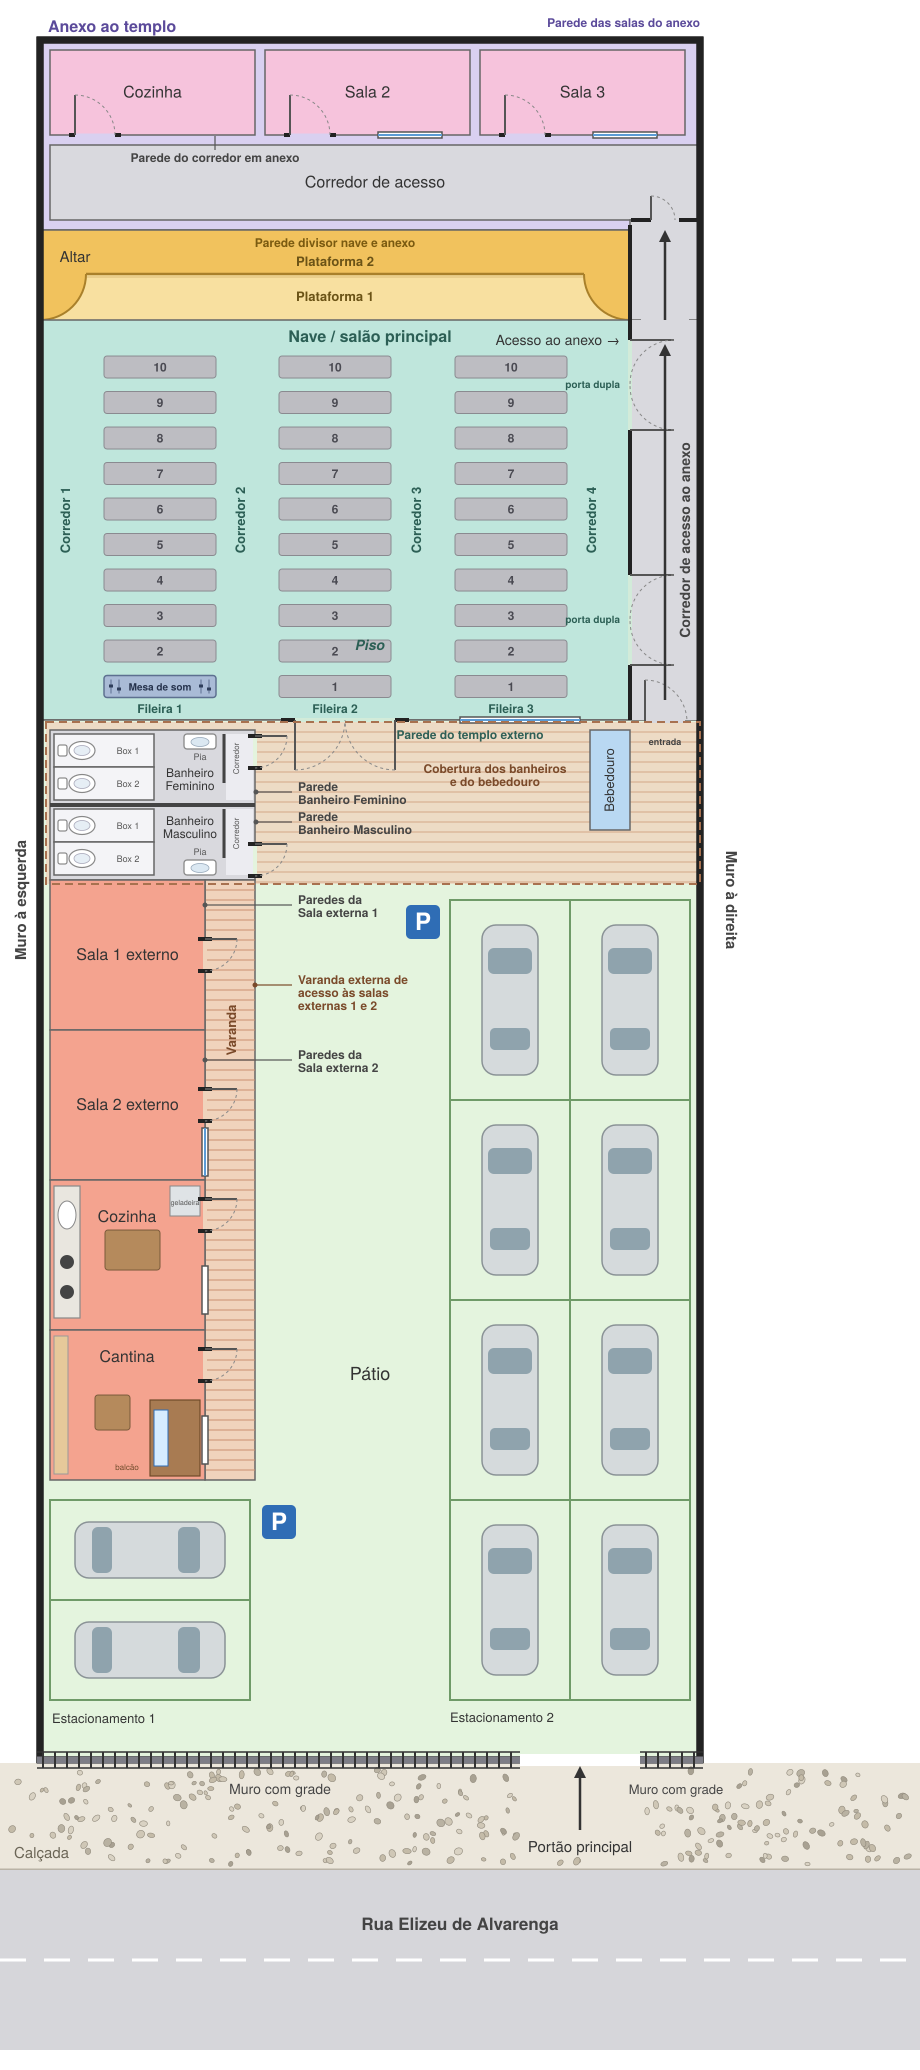
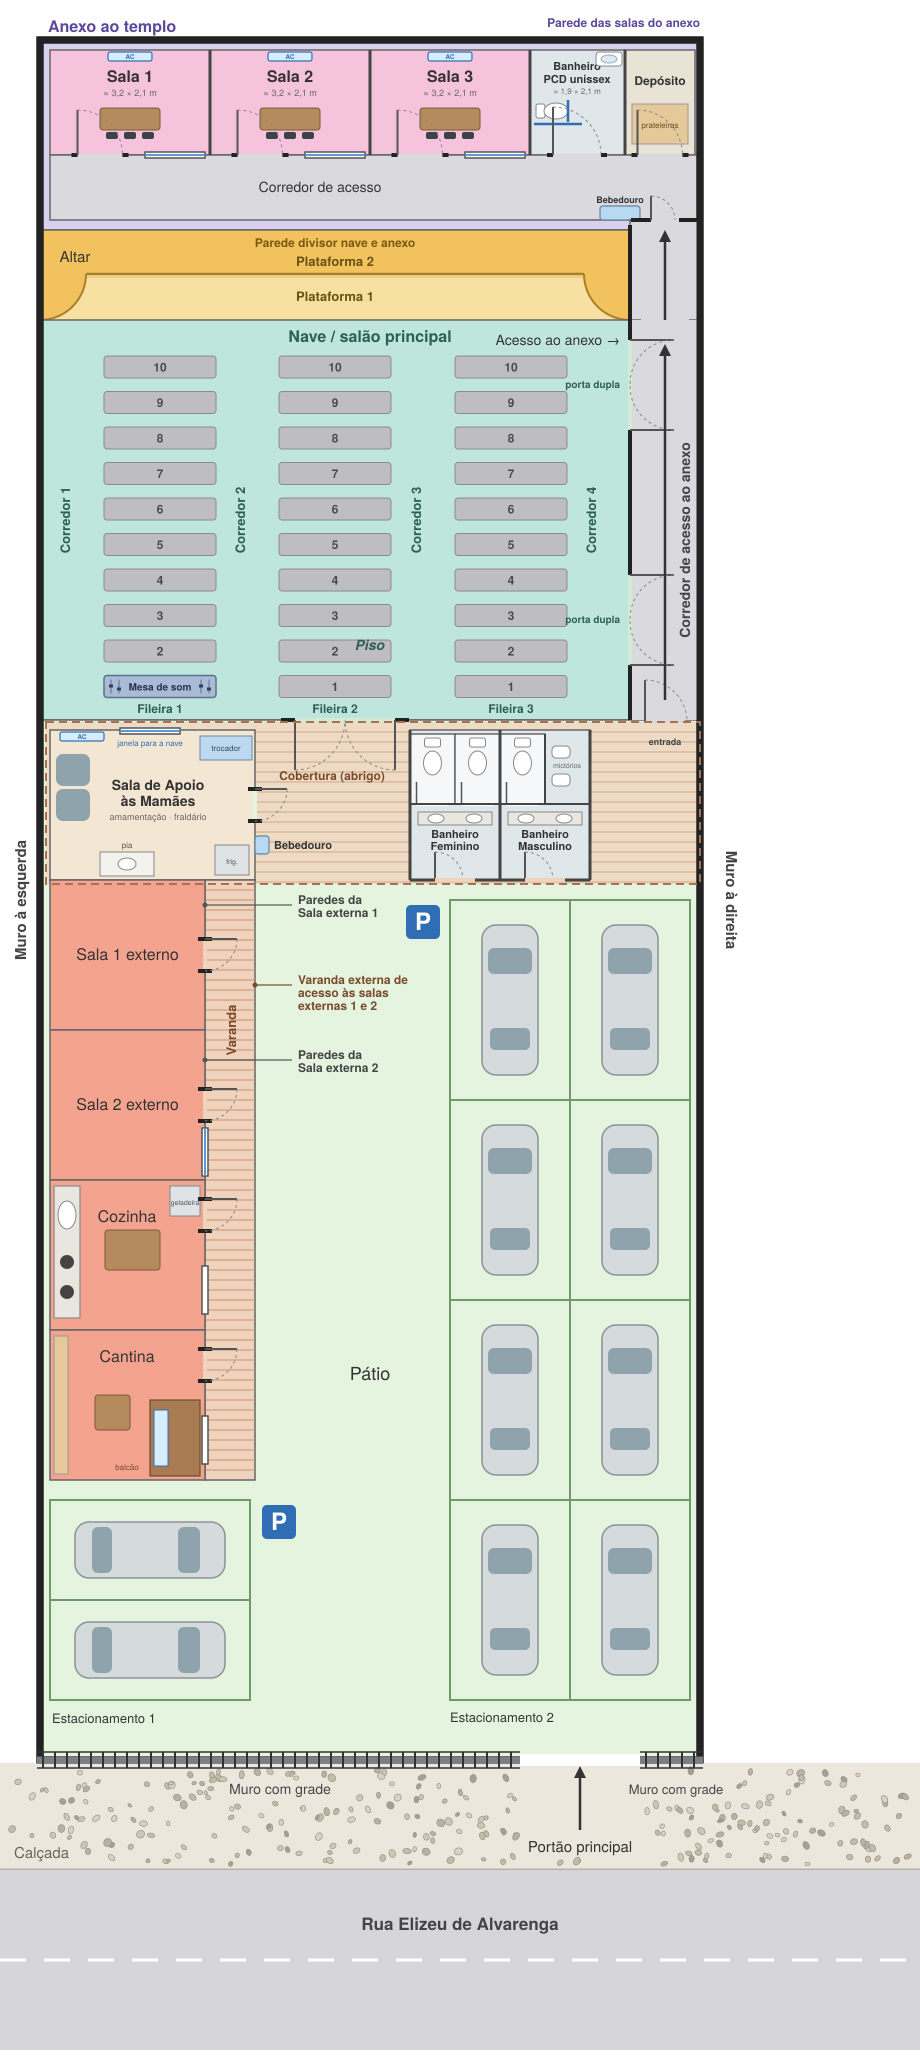
Projeto 2: sala de apoio às mamães, banheiros novos, bebedouro, anexo com salas, banheiro PCD e depósito
Claude-Session: https://claude.ai/code/session_015gh4tS64wXyJ2ghbw66cFX

Changed region(s): [[0.0304, 0.3401, 0.7, 0.4329], [0.0609, 0.0, 0.7609, 0.1237]]

diff --git a/projeto2/maquete.html b/projeto2/maquete.html
@@ -223,8 +223,10 @@
     rect(40, 720, 700, 1760, 0, 0.05, 0, { cast: false, material: new THREE.MeshStandardMaterial({ map: tx, roughness: 0.9 }) });   // pátio
   })();
   rect(40, 40, 700, 230, 0, 0.06, C.anexo, { cast: false });                 // bloco do anexo
-  [[50,255],[265,470],[480,685]].forEach(function(r){ rect(r[0], 50, r[1], 135, 0.06, 0.04, C.salaAnexo, { cast: false }); });
-  rect(50, 145, 700, 220, 0.06, 0.04, C.corr, { cast: false });              // corredor do anexo
+  [[50,210],[210,370],[370,530]].forEach(function(r){ rect(r[0], 50, r[1], 155, 0.06, 0.04, C.salaAnexo, { cast: false }); });   // PROJETO 2: 3 salas
+  rect(530, 50, 625, 155, 0.06, 0.04, 0xdfe7ea, { cast: false });            // PROJETO 2: banheiro PCD unissex
+  rect(625, 50, 695, 155, 0.06, 0.04, 0xe9e3d6, { cast: false });            // PROJETO 2: depósito
+  rect(50, 155, 700, 220, 0.06, 0.04, C.corr, { cast: false });              // corredor do anexo
   rect(630, 220, 700, 320, 0.0, 0.1, C.corr, { cast: false });               // corredor de acesso ao anexo
   // nave: piso de cor clara (porcelanato bege claro, placas de 0,6 m)
   (function(){
@@ -377,17 +379,36 @@
   [520, 640].forEach(function(px){ box(0.4, BH, 0.4, C.trim, X(px), BH / 2, Z(1760)); });
 
   // ---------- Anexo (paredes das salas com altura padrão de 3 m) ----------
-  vwall(260, 50, 135, BH); vwall(475, 50, 135, BH);
-  hwall(135, 50, 255, BH, [door(95), win(200)]);                              // Cozinha (porta + janela)
-  hwall(135, 265, 470, BH, [door(310), win(410)]);                           // Sala 2
-  hwall(135, 480, 685, BH, [door(525), win(625)]);                           // Sala 3
+  // PROJETO 2: anexo reorganizado (3 salas + banheiro PCD unissex + depósito) com corredor y155..220 e bebedouro
+  [210, 370, 530, 625].forEach(function(px){ vwall(px, 50, 155, BH); });
+  vwall(695, 50, 155, BH);
+  hwall(155, 50, 695, BH, [door(100), win(175), door(260), win(335), door(420), win(495), { a: 553, b: 601, lh: 2.1 }, door(660)]);
   doorLeaf(true, 225, 665, 0.86, 2.08, 0.2);                                // porta de madeira de acesso ao anexo
-  [95, 310, 525].forEach(function(c){ doorLeaf(true, 135, c); });            // portas de madeira: Cozinha, Sala 2, Sala 3
-  [200, 410, 625].forEach(function(c){ winFrame(true, 135, c); });           // janelas: Cozinha, Sala 2, Sala 3
+  [100, 260, 420, 660].forEach(function(c){ doorLeaf(true, 155, c); });      // portas de madeira: Salas 1-3 e depósito
+  doorLeaf(true, 155, 577, 0.9, 2.08, 0.16);                                // porta do banheiro PCD
+  [175, 335, 495].forEach(function(c){ winFrame(true, 155, c); });           // janelas das 3 salas
+  (function(){
+    function acBox(x, y, z){ box(0.95, 0.28, 0.2, 0xf4f4f2, x, y, z); box(0.8, 0.025, 0.02, 0x9aa0a6, x, y - 0.09, z + 0.105, null, { cast: false }); }
+    [130, 290, 450].forEach(function(cx){
+      acBox(X(cx), 2.45, Z(40) + 0.11 + 0.1);                                                   // split na parede do fundo
+      box(1.3, 0.05, 0.55, 0xb58a5c, X(cx), 0.76, Z(115)); [-0.55, 0.55].forEach(function(o){ box(0.05, 0.72, 0.5, 0xdad7d0, X(cx) + o, 0.4, Z(115)); });
+      [-0.4, 0, 0.4].forEach(function(o){ box(0.4, 0.04, 0.4, 0x3d4249, X(cx) + o, 0.45, Z(135)); box(0.4, 0.38, 0.04, 0x3d4249, X(cx) + o, 0.66, Z(135) + 0.19); box(0.06, 0.43, 0.06, 0x8a8f94, X(cx) + o, 0.22, Z(135)); });
+      box(1.5, 0.85, 0.04, 0x16191c, X(cx), 1.5, Z(40) + 0.11 + 0.02);                          // tela
+    });
+    // banheiro PCD unissex (x530..625, y50..155): vaso, pia, barras de apoio, espelho
+    box(0.18, 0.75, 0.22, C.white, X(536), 0.375, Z(111)); var wb = new THREE.Mesh(new THREE.CylinderGeometry(0.22, 0.17, 0.4, 18), mat(C.white, { roughness: 0.4 })); wb.scale.set(1, 1, 0.72); wb.position.set(X(556), 0.2, Z(111)); wb.castShadow = true; root.add(wb);
+    box(0.04, 0.04, 0.8, 0xc9ced3, X(534), 0.85, Z(125)); box(0.04, 0.04, 0.8, 0xc9ced3, X(582), 0.85, Z(100)); box(0.8, 0.04, 0.04, 0xc9ced3, X(560), 0.85, Z(76));
+    box(0.55, 0.85, 0.3, C.white, X(609), 0.425, Z(46)); box(0.45, 0.03, 0.2, 0xbcd5e8, X(609), 0.865, Z(46), null, { cast: false });
+    box(0.6, 0.8, 0.02, 0, X(609), 1.55, Z(40) + 0.11 + 0.02, null, { material: new THREE.MeshStandardMaterial({ color: 0xdde9ef, roughness: 0.05, metalness: 0.8 }), cast: false });
+    // depósito: prateleiras
+    box(1.2, 1.8, 0.4, 0xe6c99a, X(660), 0.98, Z(46)); [0.5, 1.0, 1.5].forEach(function(hh){ box(1.25, 0.04, 0.42, 0xc9a87c, X(660), hh + 0.1, Z(46)); });
+    // bebedouro do anexo, na parede do corredor (lado do altar), perto do saguão
+    box(0.8, 1.0, 0.36, 0xcfd8dc, X(620), 0.5, Z(225) - 0.09 - 0.18); box(0.7, 0.05, 0.3, 0x5b9bd5, X(620), 1.02, Z(225) - 0.09 - 0.18); box(0.05, 0.12, 0.05, 0x888, X(620), 1.1, Z(225) - 0.09 - 0.1);
+  })();
   hwall(225, 40, 700, BH, [door(665)], C.wall, 0.18);                        // Parede divisor nave e anexo; porta do anexo
 
   // ---------- Parede do templo externo (nave x pátio): porta dupla e janela ----------
-  hwall(720, 40, 700, BH, [{ a: 300, b: 390, lh: 2.1 }, win(520), { a: 645, b: 685, lh: 2.1 }], C.wall, 0.22);
+  hwall(720, 40, 700, BH, [win(150), { a: 300, b: 390, lh: 2.1 }, { a: 645, b: 685, lh: 2.1 }], C.wall, 0.22);   // PROJETO 2: janela da nave para a Sala de Apoio (x150); janela antiga de x520 removida (banheiros)
   doorLeaf(true, 720, 665, 0.86, 2.08, 0.22);                                // PROJETO 2: porta de entrada do corredor de acesso ao anexo
   vwall(630, 225, 720, BH, [{ a: 340, b: 430, lh: 2.1 }, { a: 575, b: 665, lh: 2.1 }], 0xd2d4d7, 0.14);
   // PROJETO 2: 2 portas duplas em vidro temperado (iguais à porta da nave) ligando a nave ao corredor: uma junto ao altar e outra na extremidade oposta
@@ -483,7 +504,7 @@
       });
     })();
     // parede do pátio (face interna): em torno da porta dupla e da janela
-    ph(720, -1, 40, 300, 0, BH); ph(720, -1, 390, 490, 0, BH); ph(720, -1, 550, 645, 0, BH); ph(720, -1, 685, 700, 0, BH); ph(720, -1, 645, 685, 2.1, BH);
+    ph(720, -1, 40, 120, 0, BH); ph(720, -1, 180, 300, 0, BH); ph(720, -1, 120, 180, 0, 1.1); ph(720, -1, 120, 180, 2.3, BH); ph(720, -1, 390, 645, 0, BH); ph(720, -1, 685, 700, 0, BH); ph(720, -1, 645, 685, 2.1, BH);
     ph(720, -1, 300, 390, 2.1, BH);           // acima da porta
     ph(720, -1, 490, 550, 0, 1.1); ph(720, -1, 490, 550, 2.3, BH);   // abaixo e acima da janela
   })();
@@ -501,7 +522,7 @@
       [0.14, -0.14].forEach(function(f){ box(0.03, 0.8, 0.03, 0xc9ced3, hx, 1.05, cz + f); });
     });
     box(1.84, 0.07, 0.24, met, cx, 2.135, cz);                                                         // verga/bandeira superior
-    winFrame(true, 720, 520);
+    winFrame(true, 720, 150);
   })();
   // revestimento SOMENTE da face externa (lado do pátio): mesma cor do muro (azul em cima, ladrilhinhos embaixo)
   (function(){
@@ -515,8 +536,8 @@
       }
       part(y0, Math.min(y1, 1.5), true); part(Math.max(y0, 1.5), y1, false);
     }
-    clad(40, 300, 0, BH); clad(390, 490, 0, BH); clad(550, 700, 0, BH);
-    clad(300, 390, 2.1, BH); clad(490, 550, 0, 1.1); clad(490, 550, 2.3, BH);
+    clad(40, 120, 0, BH); clad(180, 300, 0, BH); clad(120, 180, 0, 1.1); clad(120, 180, 2.3, BH); clad(390, 645, 0, BH); clad(685, 700, 0, BH);
+    clad(300, 390, 2.1, BH); clad(645, 685, 2.1, BH);
   })();
 
   // ---------- Bancos: 4 fileiras x 10 (Mesa de som no lugar do Banco 1 da Fileira 1) ----------
@@ -537,40 +558,59 @@
   });
 
   // ---------- Banheiros (box, vasos, pia, corredor) e Salas externas ----------
-  rect(50, 730, 255, 805, 0.0, 0.1, C.bath, { cast: false });
-  rect(50, 805, 255, 880, 0.0, 0.1, C.bath, { cast: false });
+  rect(50, 730, 255, 880, 0.0, 0.1, 0xe8d9c0, { cast: false });                // PROJETO 2: Sala de Apoio às Mamães (piso amadeirado claro)
+  rect(410, 730, 590, 880, 0.0, 0.1, C.bath, { cast: false });                // PROJETO 2: banheiros novos
   rect(50, 880, 205, 1030, 0.0, 0.1, C.salaExt, { cast: false });
   rect(50, 1030, 205, 1180, 0.0, 0.1, C.salaExt, { cast: false });
   rect(205, 880, 255, 1480, 0.0, 0.08, C.varanda, { cast: false });         // piso da varanda (PROJETO 2: prolongada até a Cantina)
   rect(50, 1180, 205, 1330, 0.0, 0.1, C.salaExt, { cast: false });           // PROJETO 2: Cozinha
   rect(50, 1330, 205, 1480, 0.0, 0.1, C.salaExt, { cast: false });           // PROJETO 2: Cantina
-  hwall(730, 50, 255, BH, [], 'HALF'); hwall(805, 50, 255, BH, [], 'HALF');   // paredes dos banheiros: mesmo azul claro das salas externas
+  hwall(730, 50, 255, BH, [win(150)], 'HALF');   // paredes dos banheiros: mesmo azul claro das salas externas
   hwall(880, 50, 205, BH, [], 'HALF'); hwall(880, 205, 255, BH, [], 'HALF');      // paredes das salas externas: azul mais claro
   hwall(1030, 50, 205, BH, [], 'HALF');        hwall(1180, 50, 205, BH, [], 'HALF');
   hwall(1330, 50, 205, BH, [], 'HALF'); hwall(1480, 50, 205, BH, [], 'HALF'); vwall(50, 1180, 1480, BH, [], 'HALF');   // PROJETO 2: Cozinha e Cantina
   vwall(50, 730, 880, BH, [], 'HALF'); vwall(50, 880, 1180, BH, [], 'HALF');
-  vwall(255, 730, 880, BH, [{ a: 730, b: 774.5, lh: 2.1 }, { a: 837.5, b: 880, lh: 2.1 }], 'HALF');   // portas: Feminino (cima) / Masculino (baixo)
+  vwall(255, 730, 880, BH, [door(805)], 'HALF');   // PROJETO 2: porta da Sala de Apoio às Mamães   // portas: Feminino (cima) / Masculino (baixo)
   vwall(205, 880, 1180, BH, [door(955), door(1090), win(1146)], 'HALF');
   vwall(205, 1180, 1480, BH, [door(1215), win(1290), door(1365), win(1440)], 'HALF');   // PROJETO 2: portas e janelas da Cozinha e da Cantina (lado da varanda)
   [1215, 1365].forEach(function(c){ doorLeaf(false, 205, c); }); [1290, 1440].forEach(function(c){ winFrame(false, 205, c); });   // portas das salas externas + janela da Sala 2 externo (lado da varanda)
   [955, 1090].forEach(function(c){ doorLeaf(false, 205, c); });
-  doorLeaf(false, 255, 752.25, 0.86, 2.08, 0.18); doorLeaf(false, 255, 858.75, 0.86, 2.08, 0.18);   // portas de madeira dos banheiros (acesso à pia): Feminino / Masculino
-  [730, 805].forEach(function(y0){ [y0 + 20.5, y0 + 53.5].forEach(function(cy){ doorLeaf(false, 154, cy, 0.4, 1.68, 0.1); }); });   // portas de madeira dos boxes (acesso aos vasos)
+  doorLeaf(false, 255, 805, 0.86, 2.08, 0.18);   // PROJETO 2: porta de madeira da Sala de Apoio
   winFrame(false, 205, 1146);
-  [730, 805].forEach(function(y0, bi){
-    [y0 + 4, y0 + 37, y0 + 70].forEach(function(py){ hwall(py, 54, 154, 1.9, [], 'HALF', 0.06); });
-    vwall(154, y0 + 4, y0 + 70, 1.9, [{ a: y0 + 9.5, b: y0 + 31.5, lh: 1.7 }, { a: y0 + 42.5, b: y0 + 64.5, lh: 1.7 }], 'HALF', 0.06);
-    [y0 + 20.5, y0 + 53.5].forEach(function(cy){
-      box(0.18, 0.75, 0.22, C.white, X(62.5), 0.375, Z(cy), null, {});               // caixa acoplada
-      var bowl = new THREE.Mesh(new THREE.CylinderGeometry(0.22, 0.17, 0.4, 18), mat(C.white, { roughness: 0.4 }));
-      bowl.scale.set(1, 1, 0.72); bowl.position.set(X(82), 0.2, Z(cy)); bowl.castShadow = true; bowl.receiveShadow = true; root.add(bowl);
-    });
-    var sy = bi === 0 ? y0 + 4 : y0 + 55;                                             // pia: Feminino em cima, Masculino embaixo
-    box(0.64, 0.85, 0.3, C.white, X(200), 0.425, Z(sy + 7.5));
-    box(0.5, 0.03, 0.2, 0xbcd5e8, X(200), 0.865, Z(sy + 7.5), null, { cast: false });
-    vwall(224, y0 + 4, y0 + 53, 2.4, [], 'HALF', 0.08);                              // parede do corredor de acesso do banheiro
+  // ---- PROJETO 2: banheiros novos (Feminino x410..500 / Masculino x500..590, y730..880), entrada pelo sul ----
+  hwall(880, 410, 590, BH, [door(455), door(545)], 'HALF'); vwall(410, 730, 880, BH, [], 'HALF'); vwall(500, 730, 880, BH, [], 'HALF'); vwall(590, 730, 880, BH, [], 'HALF'); hwall(730, 410, 590, BH, [], 'HALF');
+  doorLeaf(true, 880, 455, 0.86, 2.08, 0.16); doorLeaf(true, 880, 545, 0.86, 2.08, 0.16);
+  function wcFix(c, vy){
+    box(0.18, 0.75, 0.22, C.white, X(c), 0.375, Z(vy)); var bw = new THREE.Mesh(new THREE.CylinderGeometry(0.22, 0.17, 0.4, 18), mat(C.white, { roughness: 0.4 })); bw.scale.set(0.72, 1, 1); bw.position.set(X(c), 0.2, Z(vy) + 0.3); bw.castShadow = true; root.add(bw);
+  }
+  [[410, true], [500, false]].forEach(function(u){
+    var x0 = u[0], fem = u[1];
+    hwall(804, x0, x0 + 90, 1.9, fem ? [{ a: x0 + 6, b: x0 + 39, lh: 1.7 }, { a: x0 + 51, b: x0 + 84, lh: 1.7 }] : [{ a: x0 + 6, b: x0 + 39, lh: 1.7 }], 'HALF', 0.06);
+    doorLeaf(true, 804, x0 + 22.5, 0.62, 1.68, 0.06);
+    wcFix(x0 + 22.5, 740);
+    if (fem){ doorLeaf(true, 804, x0 + 67.5, 0.62, 1.68, 0.06); wcFix(x0 + 67.5, 740); vwall(x0 + 45, 734, 804, 1.9, [], 'HALF', 0.06); }
+    else {
+      vwall(x0 + 45, 734, 804, 1.9, [], 'HALF', 0.06); hwall(804, x0 + 45, x0 + 90, 1.9, [], 'HALF', 0.06);
+      [x0 + 56, x0 + 78].forEach(function(ux){ box(0.35, 0.55, 0.25, C.white, X(ux), 0.95, Z(734) + 0.1); });
+      box(0.03, 0.8, 0.3, 0xe9ecea, X(x0 + 67), 0.95, Z(734) + 0.15);
+    }
+    box(74 * S, 0.05, 0.5, 0xf2f0ea, X(x0 + 45), 0.85, Z(818)); box(74 * S, 0.84, 0.45, 0x8d9aa0, X(x0 + 45), 0.42, Z(818));
+    [26, 64].forEach(function(ox){ var cb = new THREE.Mesh(new THREE.CylinderGeometry(0.17, 0.12, 0.08, 18), mat(0xffffff, { roughness: 0.25 })); cb.position.set(X(x0 + ox), 0.87, Z(818)); root.add(cb); box(0.03, 0.2, 0.03, 0xb8bcc0, X(x0 + ox), 0.98, Z(818) - 0.12); });
+    box(74 * S, 0.8, 0.02, 0, X(x0 + 45), 1.6, Z(806) + 0.04, null, { material: new THREE.MeshStandardMaterial({ color: 0xdde9ef, roughness: 0.05, metalness: 0.8 }), cast: false });
   });
-  rect(590, 730, 630, 830, 0, 0.95, C.bebedouro);                           // bebedouro (vertical, fino)
+  // ---- PROJETO 2: Sala de Apoio às Mamães (x50..255, y730..880): poltronas de amamentação, trocador, pia, geladeira, ar-condicionado ----
+  (function(){
+    [770, 805].forEach(function(py){
+      box(0.7, 0.45, 0.65, 0x8fa3ad, X(72), 0.3, Z(py)); box(0.14, 0.55, 0.65, 0x8fa3ad, X(60), 0.6, Z(py)); box(0.12, 0.18, 0.65, 0x7b8f99, X(86), 0.5, Z(py));
+    });
+    box(1.05, 0.9, 0.5, 0xf4f2ec, X(226), 0.45, Z(748)); box(1.05, 0.06, 0.5, 0xbcd9ef, X(226), 0.93, Z(748));
+    box(1.0, 0.9, 0.5, 0xf4f2ec, X(127), 0.45, Z(866)); var ps = new THREE.Mesh(new THREE.CylinderGeometry(0.17, 0.13, 0.08, 18), mat(0xffffff, { roughness: 0.25 })); ps.position.set(X(127), 0.92, Z(866)); root.add(ps);
+    box(0.7, 1.7, 0.65, 0xdfe3e6, X(232), 0.9, Z(862));
+    box(0.95, 0.28, 0.2, 0xf4f4f2, X(82), 2.45, Z(730) + 0.08 + 0.1);
+    var rg = new THREE.Mesh(new THREE.CylinderGeometry(1.0, 1.0, 0.02, 32), mat(0xf0e4d2, { roughness: 1 })); rg.position.set(X(152), 0.12, Z(810)); root.add(rg);
+  })();
+  // ---- PROJETO 2: novo local do bebedouro: parede externa da Sala de Apoio, no abrigo coberto ----
+  box(0.3, 1.0, 0.35, 0xcfd8dc, X(255) + 0.09 + 0.15, 0.55, Z(845)); box(0.26, 0.05, 0.3, 0x5b9bd5, X(255) + 0.09 + 0.15, 1.07, Z(845)); box(0.05, 0.12, 0.05, 0x888, X(255) + 0.09 + 0.26, 1.15, Z(845));
 
   // ---------- PROJETO 2: interior da Cozinha e da Cantina ----------
   (function(){
@@ -696,7 +736,6 @@
       for (var i = 1; i < n; i++){ var f = -0.5 + i / n; bar(bx, h, 0.012, f * w, 0); bar(w, bx, 0.012, 0, f * h); }
       for (var k = 0; k < n; k++){ var q = -0.5 + (k + 0.5) / n; box(0.05, 0.05, 0.016, white, horiz ? X(c) + q * w : X(fixed) + off, y0 + h / 2 + q * h * 0, horiz ? Z(fixed) + off : Z(c) + q * w, null, { cast: false }); }   // detalhes de cruzamento
     }
-    grille(true, 720, 520, 0.14);            // janela da nave (lado do pátio)
     grille(false, 205, 1146, 0.13);          // janela da Sala 2 externa (lado da varanda)
     grille(false, 205, 1290, 0.13); grille(false, 205, 1440, 0.13);   // PROJETO 2: janelas da Cozinha e da Cantina
     // split (ar-condicionado) na parede; rot = direção da frente
@@ -760,15 +799,16 @@
     isopor(50, 880, 205, 1030); isopor(50, 1030, 205, 1180); isopor(50, 1180, 205, 1330); isopor(50, 1330, 205, 1480);
     lampRound(127, 955); lampRound(127, 1105); lampRound(127, 1255); lampRound(127, 1405);
     // banheiros (feminino e masculino)
-    isopor(50, 730, 255, 805); isopor(50, 805, 255, 880);
-    [767, 842].forEach(function(py){ lamp(100, py, 0.7, 0.2); lamp(205, py, 0.7, 0.2); });
+    isopor(50, 730, 255, 880); isopor(410, 730, 590, 880);   // PROJETO 2: Sala de Apoio e banheiros novos
+    lampRound(110, 805); lampRound(200, 805); [455, 545].forEach(function(px){ lampRound(px, 768); lampRound(px, 845); });
     // salas do anexo e cozinha: laje emboçada branca lisa + luzes
     var lajeMat = new THREE.MeshStandardMaterial({ color: 0xffffff, roughness: 1, emissive: 0x8c8c88 });
-    [[50, 255], [265, 470], [480, 685]].forEach(function(r){
+    [[50, 210], [210, 370], [370, 530], [530, 625], [625, 695]].forEach(function(r){
       var cx = (r[0] + r[1]) / 2;
-      box((r[1] - r[0]) * S, 0.08, 85 * S, 0, X(cx), BH - 0.04, Z(92.5), forroGroup, { material: lajeMat, cast: false });
-      lampRound(cx - 30, 92); lampRound(cx + 30, 92);
+      box((r[1] - r[0]) * S, 0.08, 105 * S, 0, X(cx), BH - 0.04, Z(102.5), forroGroup, { material: lajeMat, cast: false });
+      lampRound(cx, 100);
     });
+    isopor(50, 155, 700, 220); [130, 290, 450, 580, 660].forEach(function(px){ lampRound(px, 188); });   // corredor do anexo
   })();
 
   // ---------- Árvores ----------
@@ -795,18 +835,18 @@
     labelGroup.add(sp);
   }
   label('Anexo ao templo', 370, 100, 6.4, 4.0);
-  label('Cozinha', 152, 92, 4.0, 1.9); label('Sala 2', 367, 92, 4.0, 1.7); label('Sala 3', 582, 92, 4.0, 1.7);
+  label('Sala 1', 130, 100, 4.0, 1.7); label('Sala 2', 290, 100, 4.0, 1.7); label('Sala 3', 450, 100, 4.0, 1.7); label('Banheiro PCD', 577, 100, 4.0, 2.0); label('Depósito', 660, 100, 4.0, 1.7); label('Bebedouro (anexo)', 620, 190, 4.0, 1.9);
   label('Altar', 160, 250, 2.6, 1.5); label('Plataforma 2', 335, 252, 2.3, 2.6); label('Plataforma 1', 335, 297, 1.6, 2.6);
   label('Bateria', 560, 255, 3.1, 1.5); label('Teclado', 110, 258, 3.0, 1.5); label('Guitarra', 262, 255, 3.0, 1.5); label('Baixo', 292, 255, 3.4, 1.3); label('Microfones', 375, 262, 3.0, 2.0);
   label('Piso da nave', 370, 560, 1.4, 2.6);
   label('Mesa de som', 160, 687, 1.7, 2.4);
   label('Acesso ao anexo', 665, 270, 6.2, 3.2); label('Corredor de acesso ao anexo', 665, 520, 3.4, 3.4);
-  label('Banheiro Feminino', 120, 767, 3.6, 3.0); label('Banheiro Masculino', 120, 842, 3.6, 3.0);
+  label('Sala de Apoio às Mamães', 152, 805, 3.9, 3.6); label('Banheiro Feminino', 455, 845, 3.6, 3.0); label('Banheiro Masculino', 545, 845, 3.6, 3.0);
   label('Sala 1 externo', 127, 955, 3.7, 2.6); label('Sala 2 externo', 127, 1105, 3.7, 2.6);
   label('Varanda', 230, 1130, 3.4, 1.6);
   label('Cozinha', 127, 1255, 3.1, 1.9); label('Cantina', 127, 1405, 3.1, 1.9);
-  label('Cobertura (abrigo)', 450, 790, 3.7, 3.0);
-  label('Bebedouro', 610, 780, 2.0, 2.0);
+  label('Cobertura (abrigo)', 332, 790, 3.7, 3.0);
+  label('Bebedouro', 285, 845, 2.0, 2.0);
   label('Estacionamento 1', 150, 1680, 2.2, 3.0); label('Estacionamento 2', 570, 1735, 2.2, 3.0);
   label('Pátio', 370, 1450, 2.4, 1.8);
   label('Portão principal', 580, 1760, 3.8, 3.4);
@@ -826,6 +866,8 @@
     { id: 'corredor', name: 'Corredor (anexo)', pos: [5.9, 1.65, -4.4], tgt: [5.9, 1.5, -13.4], roof: false, labels: false },
     { id: 'naveal',  name: 'Nave de cima',    pos: [1.5, 15, -2], tgt: [1.5, 0, -8.5], roof: false, labels: true },
     { id: 'cantina', name: 'Cozinha e Cantina', pos: [-3.6, 15, 11.2], tgt: [-3.6, 0, 6.2], roof: false, labels: true },
+    { id: 'apoio',   name: 'Apoio e banheiros', pos: [-1.2, 13.5, 3.4], tgt: [-1.2, 0, -2.4], roof: false, labels: true },
+    { id: 'anexosalas', name: 'Salas do anexo', pos: [0.6, 12, -8.6], tgt: [0.6, 0, -15.2], roof: false, labels: true },
     { id: 'altar',   name: 'Altar',           pos: [-2.5, 3.4, -4.2], tgt: [0, 0.8, -12.6], roof: false, labels: false },
     { id: 'anexo',   name: 'Anexo',           pos: [5, 19, -1],    tgt: [0, 0, -13], roof: false, labels: true },
     { id: 'cima',    name: 'Vista de cima',   pos: [0, 56, 4.01],  tgt: [0, 0, 4],   roof: false, labels: true }

diff --git a/index.html b/index.html
@@ -97,7 +97,7 @@
   <div class="panel" id="projeto2">
     <section>
       <h2>Projeto 2 — Maquete 3D</h2>
-      <p class="sub">Baseado na igreja atual: a Fileira 4 foi eliminada e no lugar entrou um corredor que leva do bebedouro até a porta de acesso ao anexo. Dica: use as vistas <b>Corredor (anexo)</b> e <b>Nave de cima</b>.</p>
+      <p class="sub">Baseado na igreja atual: Fileira 4 eliminada e corredor de acesso ao anexo com 2 portas para a nave; fileiras e corredores reorganizados; Cozinha e Cantina na parte externa; Sala de Apoio às Mamães, banheiros novos e bebedouro em novo local; anexo com 3 salas, banheiro PCD, depósito e bebedouro. Dica: use as vistas <b>Apoio e banheiros</b>, <b>Salas do anexo</b>, <b>Cozinha e Cantina</b> e <b>Corredor (anexo)</b>.</p>
       <iframe class="frame" data-src="projeto2/maquete.html" title="Maquete 3D do Projeto 2" allowfullscreen></iframe>
       <div class="btns"><a class="btn" href="projeto2/maquete.html" target="_blank" rel="noopener">Abrir em tela cheia</a></div>
     </section>
